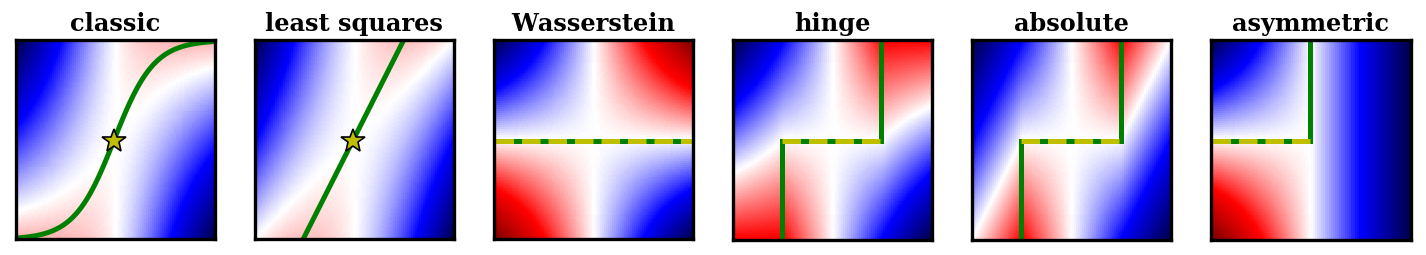
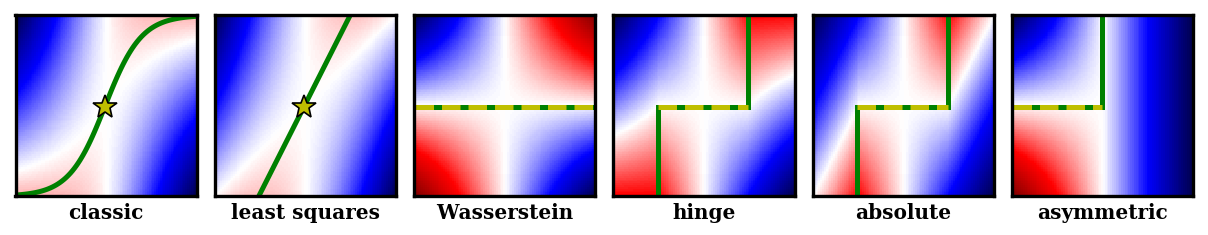
Fix the cover figure

diff --git a/docs/index.md b/docs/index.md
@@ -1,4 +1,4 @@
-<img src="figs/psi-functions.png" alt="logo" style="max-width:600px; margin-left:0; margin-right:0;"/>
+<img src="figs/psi-functions.png" alt="logo" style="max-width:500px; margin-left:0; margin-right:0;"/>
 
 In this project, we aim to gain a deeper understanding of _adversarial losses_
 by decoupling the effects of their [_component functions_](background) and
